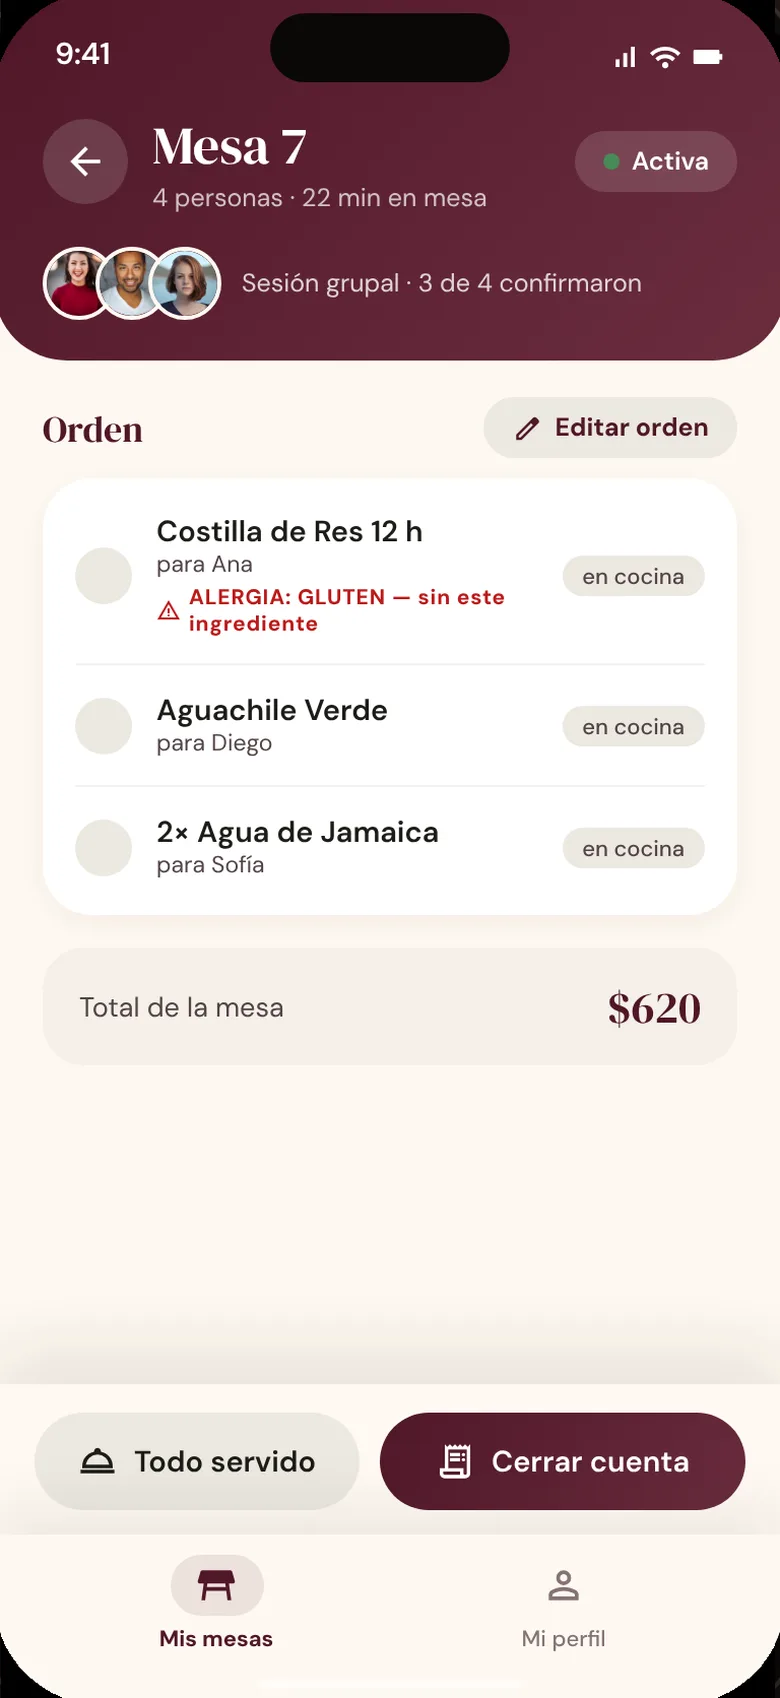
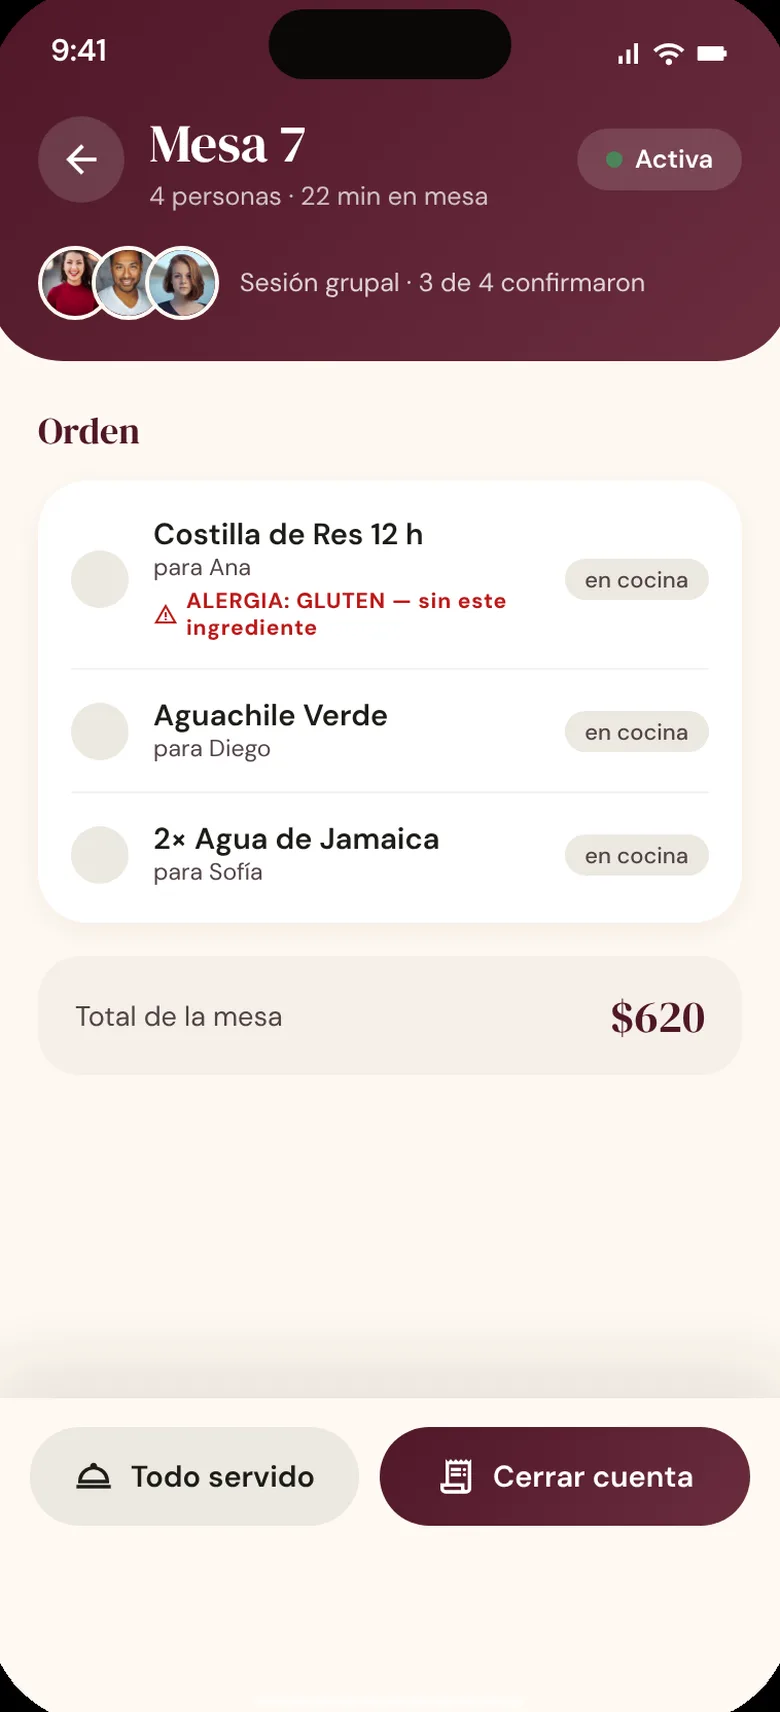
investigación: planos v9, presentación con capturas de la app real (tomas 01–02) y del prototipo sin 3D, pestañas ni edición (tomas 03–05)
Claude-Session: https://claude.ai/code/session_01T4zNEqMtXPb9f7DoikrNHg

diff --git a/docs/informes/2026-11-14-planos-de-carta-v4/interactivo.html b/docs/informes/2026-11-14-planos-de-carta-v4/interactivo.html
@@ -181,7 +181,7 @@ main{padding-block:12px 28px}
 #film .ft6 .fmarca.grande span{font-family:'DM Serif Display',serif;font-size:72px;color:#fdc34d;font-style:italic}
 #film .fphone{position:absolute;left:1180px;top:116px;width:380px;height:822px;border-radius:52px;box-shadow:0 0 0 11px #100c0a,0 0 0 13px #3a322d,0 70px 130px rgba(0,0,0,.6),0 24px 48px rgba(0,0,0,.4);opacity:0;visibility:hidden}
 #film .fscr{position:absolute;inset:0;border-radius:52px;overflow:hidden;background:#fef9f1}
-#film .fscr .s{position:absolute;left:0;top:0;width:100%;height:100%;display:block;opacity:0}
+#film .fscr .s{position:absolute;left:0;top:0;width:100%;height:100%;display:block;opacity:0;object-fit:cover;object-position:top}
 #film .fscr .s.sc{opacity:1}
 #film .ftap{position:absolute;width:76px;height:76px;margin:-38px 0 0 -38px;border-radius:50%;background:rgba(255,255,255,.34);border:3px solid rgba(255,255,255,.9);opacity:0;left:50%;top:80%}
 #film .ftoast{position:absolute;left:600px;top:110px;width:520px;padding:22px 28px;border-radius:28px;background:#fef9f1;color:#1a1a1a;box-shadow:0 30px 70px rgba(0,0,0,.5);display:flex;flex-direction:column;gap:6px;opacity:0;visibility:hidden}
@@ -7196,7 +7196,7 @@ DET.precio = {
    Fuera de la v1 y por eso ausentes: vista 3D/AR y pago. */
 const DURS = [4200, 4200, 4000, 4400, 4000, 4200, 3600], NESC = DURS.length, TOTI = DURS.reduce((a, b) => a + b, 0);
 const INI = DURS.map((_, i) => DURS.slice(0, i).reduce((a, b) => a + b, 0));
-const FILM_IMG = {fondo: "apoyo/fondo-mesa.webp", scan: "apoyo/scan.webp", enc: "apoyo/encontrado.webp", menu: "apoyo/menu.webp", grupo: "apoyo/grupo.webp", mesa: "apoyo/mesa-detalle.webp"};
+const FILM_IMG = {fondo: "apoyo/fondo-mesa.webp", scan: "apoyo/bienvenida.webp", enc: "apoyo/detalle-platillo.webp", menu: "apoyo/menu-inicio.webp", grupo: "apoyo/grupo.webp", mesa: "apoyo/mesa-detalle.webp"};
 let tI = 0, pausaI = false, rafI = 0, ultI = 0, ocultoT = 0, tlF = null;
 
 /* las cinco tomas con número: [número, título, líneas (la cursiva va entre *), subtítulo, marca] */
@@ -7210,8 +7210,8 @@ const FILM_TOMAS = [
 const filmPalabras = l => l.split(/(\*[^*]+\*)/).filter(Boolean).map(tr => { const em = tr.startsWith("*"), tx = em ? tr.slice(1, -1) : tr; return (/^ /.test(tx) ? " " : "") + tx.split(" ").filter(Boolean).map(p => `<span class="w">${em ? "<em>" + esc(p) + "</em>" : esc(p)}</span>`).join(" ") + (/ $/.test(tx) ? " " : ""); }).join("");
 const filmHtml = () => `<div id="film"><div class="fbg"><img class="ffoto" src="${FILM_IMG.fondo}" alt=""><i class="fg1"></i><i class="fg2"></i><i class="fvig"></i></div>
 <div class="ft ft0"><div class="fhook">${filmPalabras("Todo empieza en *la mesa*.")}</div><div class="fmarca"><b>Carta</b><i></i><span>El menú que la mesa arma junta</span></div></div>
-${FILM_TOMAS.map((t, i) => `<div class="ft ft${i + 1}"><div class="fkick"><span class="n">${t[0]}</span><i class="rl"></i><span class="lb">${t[1]}</span><span class="tg ${t[4]}">${t[4] === "hoy" ? "hoy en producción" : "Fase 3 · aún no construido"}</span></div><h3 class="fh">${t[2].map(l => `<span class="ln">${filmPalabras(l)}</span>`).join("")}</h3>${t[3] ? `<p class="fsub">${esc(t[3])}</p>` : ""}${i === 4 ? `<div class="frail">${["Abierta", "Cuenta cerrada", "Pagada", "Mesa limpia"].map((e, k) => `<div class="fpaso"><span class="pt">${k + 1}</span><span>${e}</span></div>`).join("")}</div>` : ""}</div>`).join("")}
-<div id="fcam"><div class="fphone"><div class="fscr"><img class="s sc" src="${FILM_IMG.scan}" alt=""><img class="s en" src="${FILM_IMG.enc}" alt=""><img class="s mn" src="${FILM_IMG.menu}" alt=""><img class="s gr" src="${FILM_IMG.grupo}" alt=""><img class="s ms" src="${FILM_IMG.mesa}" alt=""><i class="ftap"></i></div></div>
+${FILM_TOMAS.map((t, i) => `<div class="ft ft${i + 1}"><div class="fkick"><span class="n">${t[0]}</span><i class="rl"></i><span class="lb">${t[1]}</span><span class="tg ${t[4]}">${t[4] === "hoy" ? "hoy en producción" : "Fase 3 · prototipo"}</span></div><h3 class="fh">${t[2].map(l => `<span class="ln">${filmPalabras(l)}</span>`).join("")}</h3>${t[3] ? `<p class="fsub">${esc(t[3])}</p>` : ""}${i === 4 ? `<div class="frail">${["Abierta", "Cuenta cerrada", "Pagada", "Mesa limpia"].map((e, k) => `<div class="fpaso"><span class="pt">${k + 1}</span><span>${e}</span></div>`).join("")}</div>` : ""}</div>`).join("")}
+<div id="fcam"><div class="fphone"><div class="fscr"><img class="s sc" src="${FILM_IMG.scan}" alt=""><img class="s mn" src="${FILM_IMG.menu}" alt=""><img class="s en" src="${FILM_IMG.enc}" alt=""><img class="s gr" src="${FILM_IMG.grupo}" alt=""><img class="s ms" src="${FILM_IMG.mesa}" alt=""><i class="ftap"></i></div></div>
 <div class="ftoast"><b>Comanda nueva</b><span>Mesa 7 · 3 platillos · 4 personas</span></div></div>
 <div class="ft ft6"><div class="fmarca grande"><b>Carta</b><i></i><span>Tu menú, Tu Carta.</span></div></div></div>`;
 
@@ -7240,17 +7240,17 @@ function filmLinea() {
   tl.to(q(".ft0"), {autoAlpha: 0, duration: 0.35, ease: "power2.in"}, S(1) - 0.05);
   /* el teléfono: entra en la 1, se queda hasta la 5 */
   tl.fromTo(q(".fphone"), {y: 220, autoAlpha: 0, scale: 0.94}, {y: 0, autoAlpha: 1, scale: 1, duration: 1.0, ease: "power3.out"}, S(1) + 0.1);
-  tl.fromTo(q("#fcam"), {scale: 1, x: 0}, {scale: 1.07, duration: Dn(1) + Dn(2) * 0.5, ease: "sine.inOut"}, S(1));
+  tl.fromTo(q("#fcam"), {scale: 1, x: 0}, {scale: 1.1, duration: Dn(1) + Dn(2) * 0.5, ease: "sine.inOut"}, S(1));
   tl.to(q("#fcam"), {scale: 1, x: -20, duration: Dn(2) * 0.5 + Dn(3) * 0.4, ease: "sine.inOut"}, S(2) + Dn(2) * 0.5);
   tl.to(q("#fcam"), {scale: 1.06, x: 0, duration: Dn(3) * 0.6 + Dn(4) + Dn(5) * 0.5, ease: "sine.inOut"}, S(3) + Dn(3) * 0.4);
   tl.to(q(".fphone"), {y: 160, autoAlpha: 0, duration: 0.7, ease: "power2.in"}, S(6) - 0.1);
   /* pantallas: se apilan y cada una aparece encima de la anterior */
   const pant = (sel, i, t0 = 0) => tl.fromTo(q(sel), {autoAlpha: 0}, {autoAlpha: 1, duration: 0.45, ease: "power1.inOut"}, S(i) + t0);
   tl.set(q(".s.sc"), {autoAlpha: 1}, 0);
-  pant(".s.en", 1, 2.1); pant(".s.mn", 2, 0.05); pant(".s.gr", 3, 0.05); pant(".s.ms", 4, 0.05);
+  pant(".s.mn", 1, 3.0); pant(".s.en", 2, 2.2); pant(".s.gr", 3, 0.05); pant(".s.ms", 4, 0.05);
   /* toque en Continuar (toma 1) y en «+» del menú (toma 2) */
   const toque = (x, y, t) => { tl.set(q(".ftap"), {left: x, top: y}, t - 0.02).fromTo(q(".ftap"), {autoAlpha: 1, scale: 0.4}, {autoAlpha: 0, scale: 1.7, duration: 0.7, ease: "power2.out"}, t); };
-  toque("50%", "85.7%", S(1) + 3.2); toque("89%", "66.5%", S(2) + 1.6);
+  toque("50%", "49%", S(1) + 2.5); toque("35%", "46%", S(2) + 1.7);
   /* tomas 1–5: kicker, rótulo palabra por palabra, subtítulo */
   for (let i = 1; i <= 5; i++) {
     const t = ".ft" + i;

diff --git a/docs/informes/2026-11-14-planos-de-carta-v4/js/e2_film.js b/docs/informes/2026-11-14-planos-de-carta-v4/js/e2_film.js
@@ -3,7 +3,7 @@
    Fuera de la v1 y por eso ausentes: vista 3D/AR y pago. */
 const DURS = [4200, 4200, 4000, 4400, 4000, 4200, 3600], NESC = DURS.length, TOTI = DURS.reduce((a, b) => a + b, 0);
 const INI = DURS.map((_, i) => DURS.slice(0, i).reduce((a, b) => a + b, 0));
-const FILM_IMG = {fondo: "apoyo/fondo-mesa.webp", scan: "apoyo/scan.webp", enc: "apoyo/encontrado.webp", menu: "apoyo/menu.webp", grupo: "apoyo/grupo.webp", mesa: "apoyo/mesa-detalle.webp"};
+const FILM_IMG = {fondo: "apoyo/fondo-mesa.webp", scan: "apoyo/bienvenida.webp", enc: "apoyo/detalle-platillo.webp", menu: "apoyo/menu-inicio.webp", grupo: "apoyo/grupo.webp", mesa: "apoyo/mesa-detalle.webp"};
 let tI = 0, pausaI = false, rafI = 0, ultI = 0, ocultoT = 0, tlF = null;
 
 /* las cinco tomas con número: [número, título, líneas (la cursiva va entre *), subtítulo, marca] */
@@ -17,8 +17,8 @@ const FILM_TOMAS = [
 const filmPalabras = l => l.split(/(\*[^*]+\*)/).filter(Boolean).map(tr => { const em = tr.startsWith("*"), tx = em ? tr.slice(1, -1) : tr; return (/^ /.test(tx) ? " " : "") + tx.split(" ").filter(Boolean).map(p => `<span class="w">${em ? "<em>" + esc(p) + "</em>" : esc(p)}</span>`).join(" ") + (/ $/.test(tx) ? " " : ""); }).join("");
 const filmHtml = () => `<div id="film"><div class="fbg"><img class="ffoto" src="${FILM_IMG.fondo}" alt=""><i class="fg1"></i><i class="fg2"></i><i class="fvig"></i></div>
 <div class="ft ft0"><div class="fhook">${filmPalabras("Todo empieza en *la mesa*.")}</div><div class="fmarca"><b>Carta</b><i></i><span>El menú que la mesa arma junta</span></div></div>
-${FILM_TOMAS.map((t, i) => `<div class="ft ft${i + 1}"><div class="fkick"><span class="n">${t[0]}</span><i class="rl"></i><span class="lb">${t[1]}</span><span class="tg ${t[4]}">${t[4] === "hoy" ? "hoy en producción" : "Fase 3 · aún no construido"}</span></div><h3 class="fh">${t[2].map(l => `<span class="ln">${filmPalabras(l)}</span>`).join("")}</h3>${t[3] ? `<p class="fsub">${esc(t[3])}</p>` : ""}${i === 4 ? `<div class="frail">${["Abierta", "Cuenta cerrada", "Pagada", "Mesa limpia"].map((e, k) => `<div class="fpaso"><span class="pt">${k + 1}</span><span>${e}</span></div>`).join("")}</div>` : ""}</div>`).join("")}
-<div id="fcam"><div class="fphone"><div class="fscr"><img class="s sc" src="${FILM_IMG.scan}" alt=""><img class="s en" src="${FILM_IMG.enc}" alt=""><img class="s mn" src="${FILM_IMG.menu}" alt=""><img class="s gr" src="${FILM_IMG.grupo}" alt=""><img class="s ms" src="${FILM_IMG.mesa}" alt=""><i class="ftap"></i></div></div>
+${FILM_TOMAS.map((t, i) => `<div class="ft ft${i + 1}"><div class="fkick"><span class="n">${t[0]}</span><i class="rl"></i><span class="lb">${t[1]}</span><span class="tg ${t[4]}">${t[4] === "hoy" ? "hoy en producción" : "Fase 3 · prototipo"}</span></div><h3 class="fh">${t[2].map(l => `<span class="ln">${filmPalabras(l)}</span>`).join("")}</h3>${t[3] ? `<p class="fsub">${esc(t[3])}</p>` : ""}${i === 4 ? `<div class="frail">${["Abierta", "Cuenta cerrada", "Pagada", "Mesa limpia"].map((e, k) => `<div class="fpaso"><span class="pt">${k + 1}</span><span>${e}</span></div>`).join("")}</div>` : ""}</div>`).join("")}
+<div id="fcam"><div class="fphone"><div class="fscr"><img class="s sc" src="${FILM_IMG.scan}" alt=""><img class="s mn" src="${FILM_IMG.menu}" alt=""><img class="s en" src="${FILM_IMG.enc}" alt=""><img class="s gr" src="${FILM_IMG.grupo}" alt=""><img class="s ms" src="${FILM_IMG.mesa}" alt=""><i class="ftap"></i></div></div>
 <div class="ftoast"><b>Comanda nueva</b><span>Mesa 7 · 3 platillos · 4 personas</span></div></div>
 <div class="ft ft6"><div class="fmarca grande"><b>Carta</b><i></i><span>Tu menú, Tu Carta.</span></div></div></div>`;
 
@@ -47,17 +47,17 @@ function filmLinea() {
   tl.to(q(".ft0"), {autoAlpha: 0, duration: 0.35, ease: "power2.in"}, S(1) - 0.05);
   /* el teléfono: entra en la 1, se queda hasta la 5 */
   tl.fromTo(q(".fphone"), {y: 220, autoAlpha: 0, scale: 0.94}, {y: 0, autoAlpha: 1, scale: 1, duration: 1.0, ease: "power3.out"}, S(1) + 0.1);
-  tl.fromTo(q("#fcam"), {scale: 1, x: 0}, {scale: 1.07, duration: Dn(1) + Dn(2) * 0.5, ease: "sine.inOut"}, S(1));
+  tl.fromTo(q("#fcam"), {scale: 1, x: 0}, {scale: 1.1, duration: Dn(1) + Dn(2) * 0.5, ease: "sine.inOut"}, S(1));
   tl.to(q("#fcam"), {scale: 1, x: -20, duration: Dn(2) * 0.5 + Dn(3) * 0.4, ease: "sine.inOut"}, S(2) + Dn(2) * 0.5);
   tl.to(q("#fcam"), {scale: 1.06, x: 0, duration: Dn(3) * 0.6 + Dn(4) + Dn(5) * 0.5, ease: "sine.inOut"}, S(3) + Dn(3) * 0.4);
   tl.to(q(".fphone"), {y: 160, autoAlpha: 0, duration: 0.7, ease: "power2.in"}, S(6) - 0.1);
   /* pantallas: se apilan y cada una aparece encima de la anterior */
   const pant = (sel, i, t0 = 0) => tl.fromTo(q(sel), {autoAlpha: 0}, {autoAlpha: 1, duration: 0.45, ease: "power1.inOut"}, S(i) + t0);
   tl.set(q(".s.sc"), {autoAlpha: 1}, 0);
-  pant(".s.en", 1, 2.1); pant(".s.mn", 2, 0.05); pant(".s.gr", 3, 0.05); pant(".s.ms", 4, 0.05);
+  pant(".s.mn", 1, 3.0); pant(".s.en", 2, 2.2); pant(".s.gr", 3, 0.05); pant(".s.ms", 4, 0.05);
   /* toque en Continuar (toma 1) y en «+» del menú (toma 2) */
   const toque = (x, y, t) => { tl.set(q(".ftap"), {left: x, top: y}, t - 0.02).fromTo(q(".ftap"), {autoAlpha: 1, scale: 0.4}, {autoAlpha: 0, scale: 1.7, duration: 0.7, ease: "power2.out"}, t); };
-  toque("50%", "85.7%", S(1) + 3.2); toque("89%", "66.5%", S(2) + 1.6);
+  toque("50%", "49%", S(1) + 2.5); toque("35%", "46%", S(2) + 1.7);
   /* tomas 1–5: kicker, rótulo palabra por palabra, subtítulo */
   for (let i = 1; i <= 5; i++) {
     const t = ".ft" + i;

diff --git a/docs/informes/2026-11-14-planos-de-carta-v4/interactivo.tpl.html b/docs/informes/2026-11-14-planos-de-carta-v4/interactivo.tpl.html
@@ -181,7 +181,7 @@ main{padding-block:12px 28px}
 #film .ft6 .fmarca.grande span{font-family:'DM Serif Display',serif;font-size:72px;color:#fdc34d;font-style:italic}
 #film .fphone{position:absolute;left:1180px;top:116px;width:380px;height:822px;border-radius:52px;box-shadow:0 0 0 11px #100c0a,0 0 0 13px #3a322d,0 70px 130px rgba(0,0,0,.6),0 24px 48px rgba(0,0,0,.4);opacity:0;visibility:hidden}
 #film .fscr{position:absolute;inset:0;border-radius:52px;overflow:hidden;background:#fef9f1}
-#film .fscr .s{position:absolute;left:0;top:0;width:100%;height:100%;display:block;opacity:0}
+#film .fscr .s{position:absolute;left:0;top:0;width:100%;height:100%;display:block;opacity:0;object-fit:cover;object-position:top}
 #film .fscr .s.sc{opacity:1}
 #film .ftap{position:absolute;width:76px;height:76px;margin:-38px 0 0 -38px;border-radius:50%;background:rgba(255,255,255,.34);border:3px solid rgba(255,255,255,.9);opacity:0;left:50%;top:80%}
 #film .ftoast{position:absolute;left:600px;top:110px;width:520px;padding:22px 28px;border-radius:28px;background:#fef9f1;color:#1a1a1a;box-shadow:0 30px 70px rgba(0,0,0,.5);display:flex;flex-direction:column;gap:6px;opacity:0;visibility:hidden}
